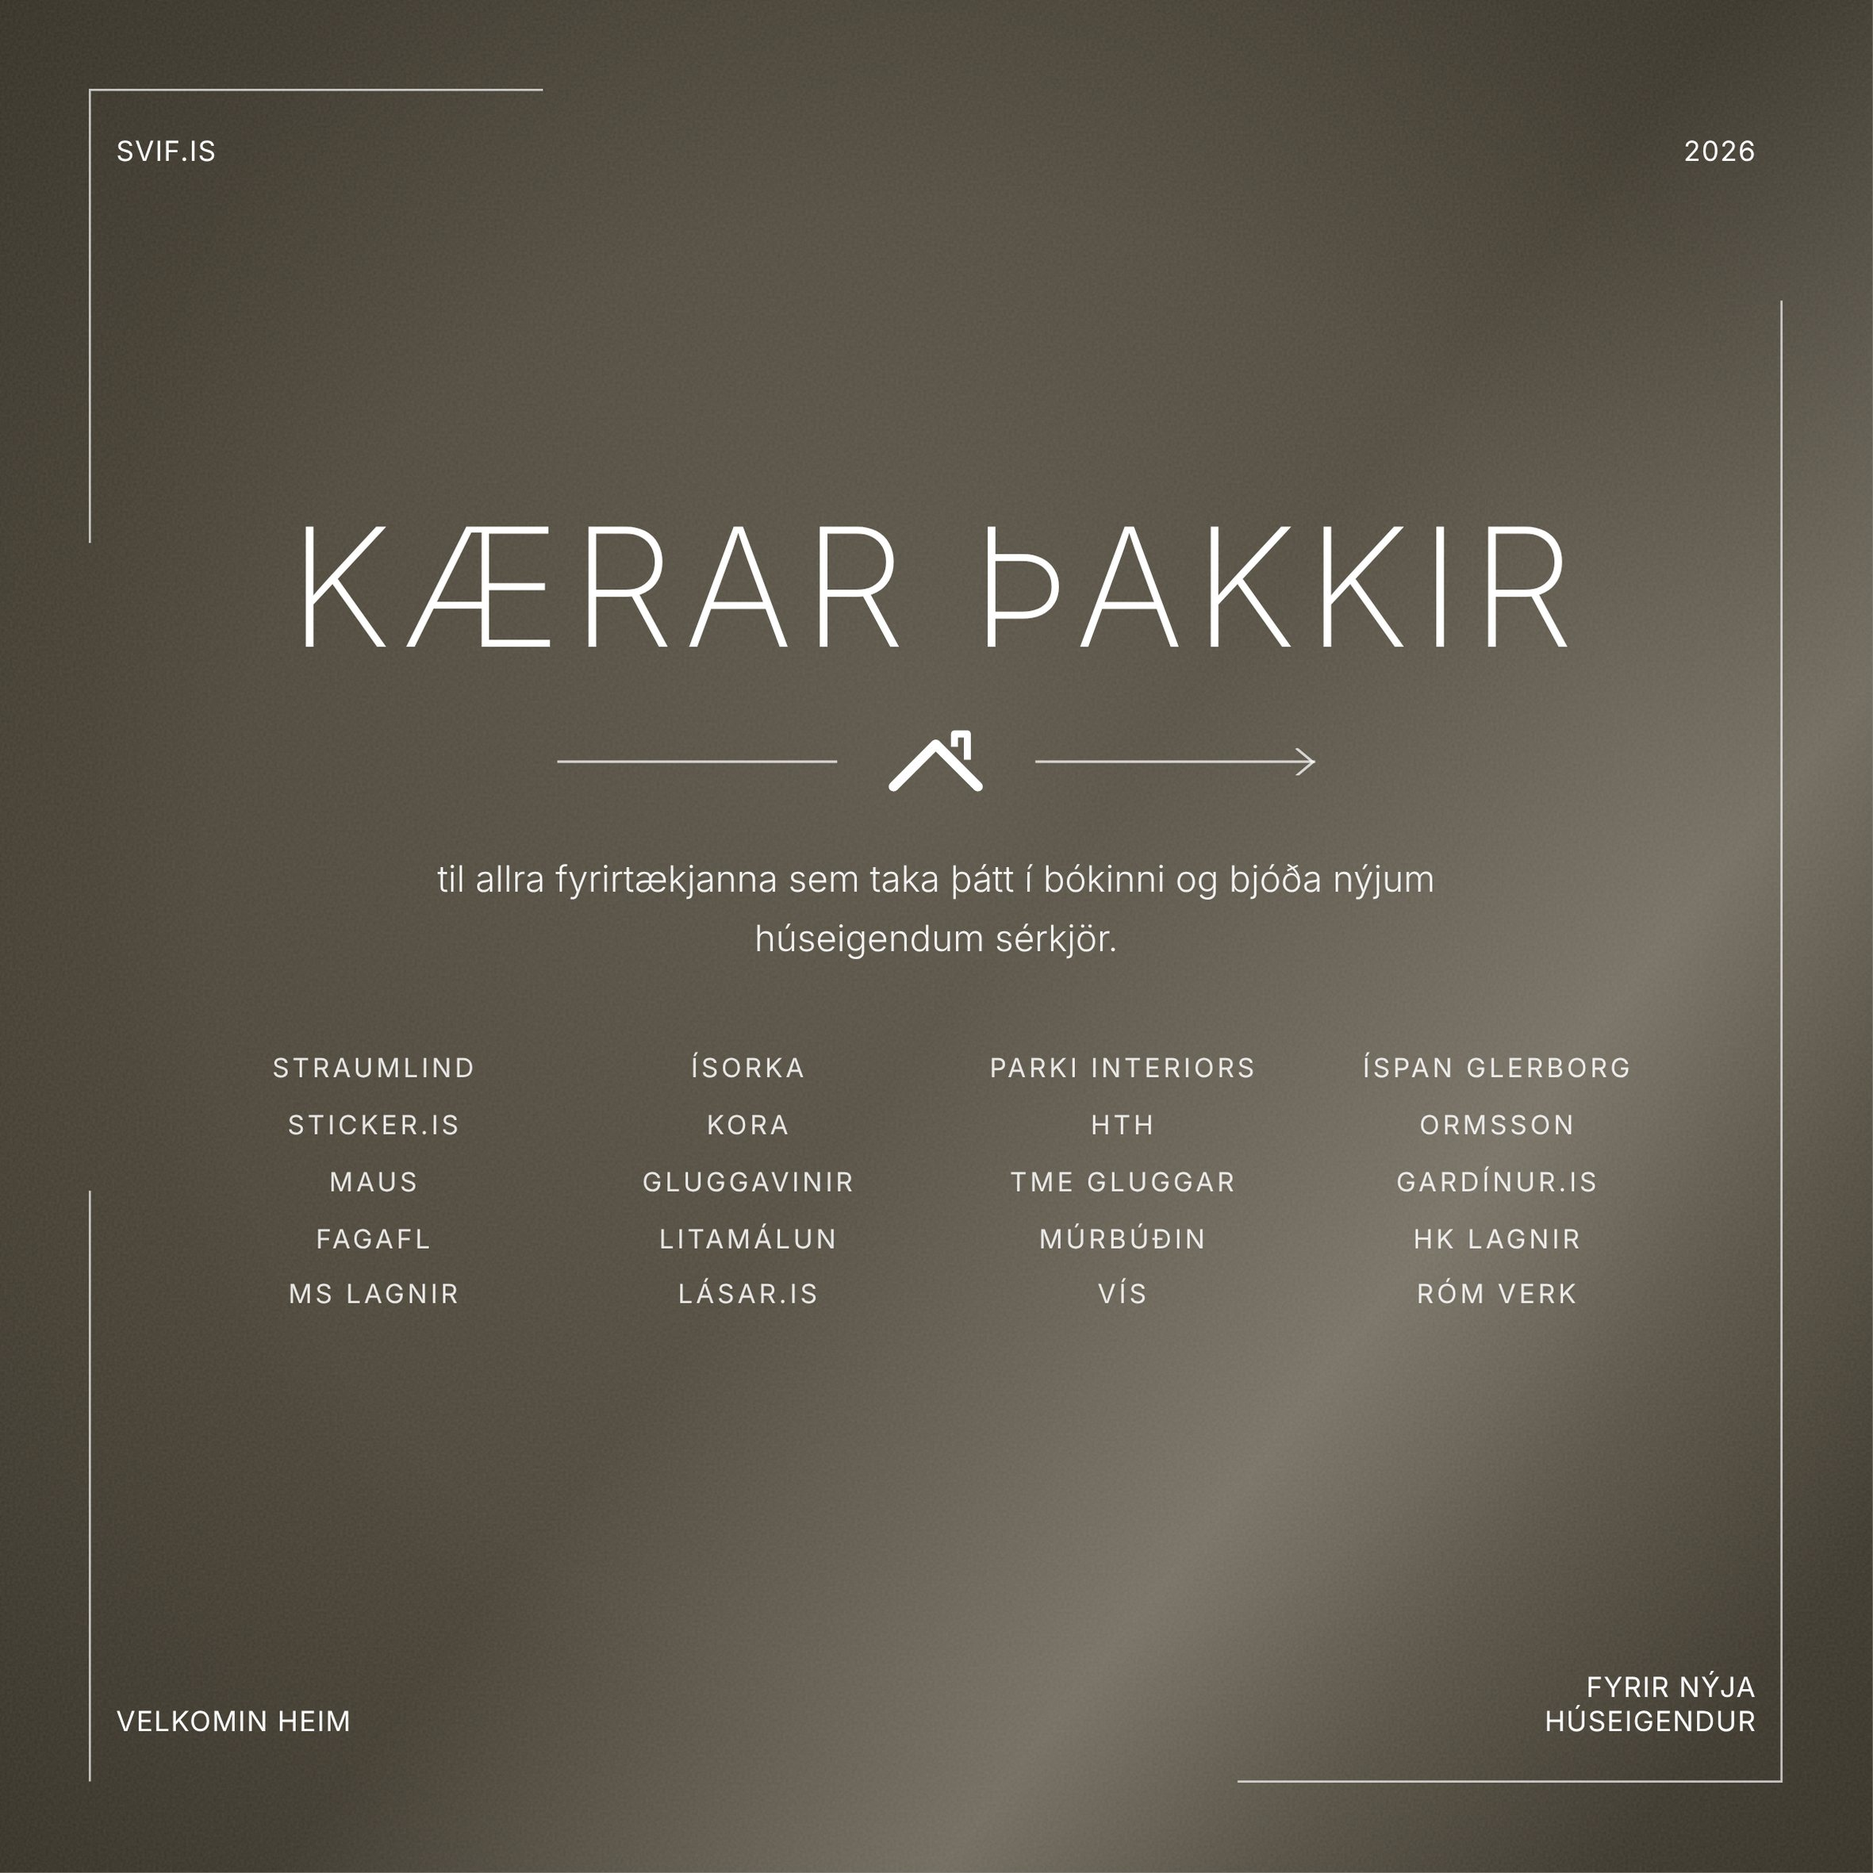
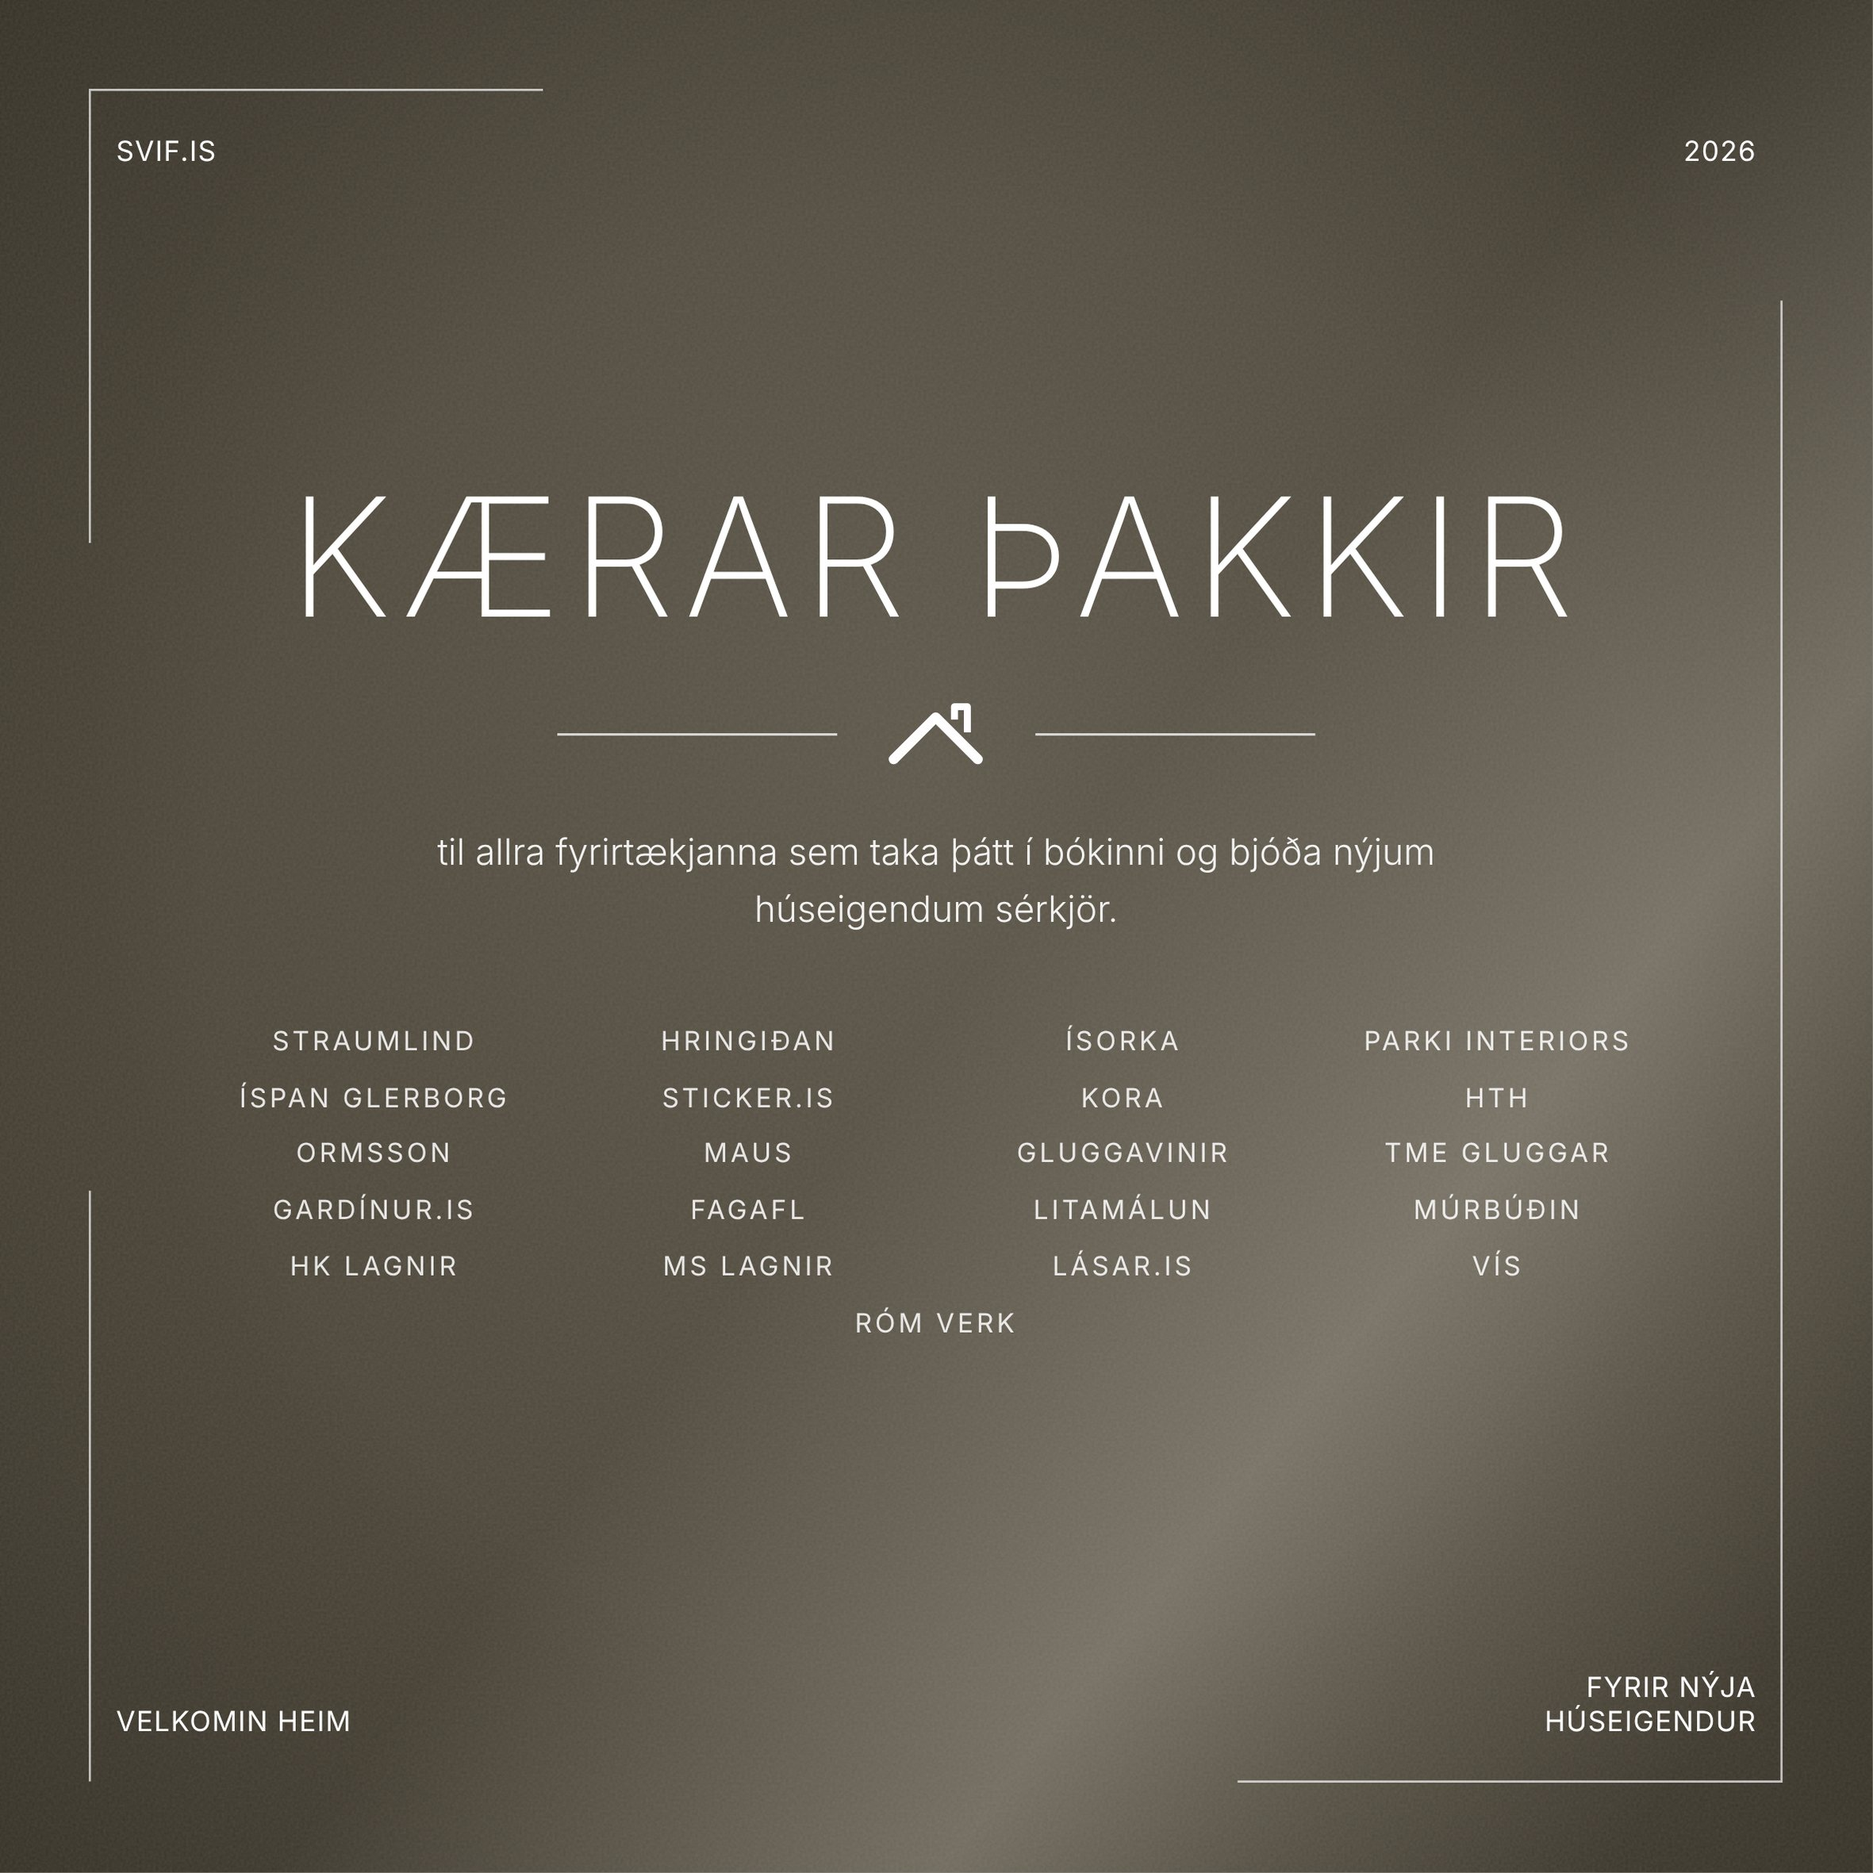
SVIF bæklingur: Hringiðan á bls. 9 við hlið Straumlindar, 30 síður, miðasíðan aftur hægri síða með auða bakhlið
Claude-Session: https://claude.ai/code/session_01JAXd2kxjoayDuyNhEKw2yp

diff --git a/svif-baeklingur/vefur/flettibok_src.html b/svif-baeklingur/vefur/flettibok_src.html
@@ -109,7 +109,7 @@ body.flatt .golfskuggi{display:none}
 <header>
   <div>
     <div class="merki">SVIF</div>
-    <div class="undir">Prufuflettu · 29 síður · 194 × 194 mm</div>
+    <div class="undir">Prufuflettu · 30 síður · 194 × 194 mm</div>
   </div>
   <div class="pilla" role="group" aria-label="Sýn">
     <button type="button" id="sjon2d" aria-pressed="false">2D</button>
@@ -133,13 +133,13 @@ body.flatt .golfskuggi{display:none}
 <div class="visbending" id="visbending">Smelltu á bókina, strjúktu eða notaðu örvatakkana til að fletta</div>
 <div class="stjorn">
   <button class="hnappur hringur" id="afturHn" type="button" aria-label="Fyrri opna">‹</button>
-  <div class="teljari" id="teljari">Forsíða<small>bls. 1 af 29</small></div>
+  <div class="teljari" id="teljari">Forsíða<small>bls. 1 af 30</small></div>
   <button class="hnappur hringur" id="framHn" type="button" aria-label="Næsta opna">›</button>
   <button class="hnappur" id="byrjaHn" type="button">Byrja aftur</button>
 </div>
 
 <section class="skra" aria-label="Efnisyfirlit">
-  <h2>Efnisyfirlit <span>20 fyrirtæki · 21 auglýsingasíða</span></h2>
+  <h2>Efnisyfirlit <span>21 fyrirtæki · 22 auglýsingasíður</span></h2>
   <ol id="skra"></ol>
 </section>
 
@@ -148,9 +148,9 @@ body.flatt .golfskuggi{display:none}
   // 32 síður = 16 blöð. 0 forsíða, 1 yfirlit, 2 afsláttarmiðar, 3–23 auglýsingar, 24–26 laust pláss, 27 Af hverju SVIF,
   // 28 afsláttarmiðar með rifgötun (ekki á kápublaðinu), 29 auð bakhlið miðanna, 30 Kærar þakkir, 31 bakkápa.
   // Hver opna (oddatala + slétt tala) heldur saman skyldum fyrirtækjum; tveggja síðna auglýsingar (Maus, Steindi) byrja á oddatölusíðu.
-  const heiti=['Forsíða', 'Yfirlit', 'Afsláttarmiðar', 'Parki', 'Gardínur', 'HTH', 'Ormsson', 'Straumlind', 'Ísorka', 'Íspan', 'Sticker', 'Maus', 'Maus', 'Gluggavinir', 'TME Gluggar', 'RÓM Verk', 'KORA', 'Litamálun', 'Múrbúðin', 'Fagafl', 'HK Lagnir', 'MS Lagnir', 'Lásar.is', 'VÍS', 'Af hverju SVIF', 'Afsláttarmiðar', 'Auð síða', 'Kærar þakkir', 'Auð síða', 'Bakkápa'];
+  const heiti=['Forsíða', 'Yfirlit', 'Afsláttarmiðar', 'Parki', 'Gardínur', 'HTH', 'Ormsson', 'Straumlind', 'Hringiðan', 'Ísorka', 'Íspan', 'Maus', 'Maus', 'Gluggavinir', 'TME Gluggar', 'Sticker', 'KORA', 'Litamálun', 'Múrbúðin', 'Fagafl', 'RÓM Verk', 'HK Lagnir', 'MS Lagnir', 'Lásar.is', 'VÍS', 'Af hverju SVIF', 'Afsláttarmiðar', 'Auð síða', 'Kærar þakkir', 'Bakkápa'];
   // Þema hverrar opnu, eftir flettingu (opna k sýnir síður 2k-1 og 2k).
-  const thema={1:'Yfirlit & afsláttarmiðar',2:'Gólf & gardínur',3:'Eldhús & tæki',4:'Rafmagn & orka',5:'Gler & filmur',6:'Eldvarnir',7:'Gluggar & ísetning',8:'Rafvirki & þjónusta',9:'Málun & múr',10:'Smíði & lagnir',11:'Lagnir & lásar',12:'Tryggingar & um SVIF',13:'Afsláttarmiðar',14:'Kærar þakkir'};
+  const thema={1:'Yfirlit & afsláttarmiðar',2:'Gólf & gardínur',3:'Eldhús & tæki',4:'Rafmagn & net',5:'Orka & gler',6:'Eldvarnir',7:'Gluggar & ísetning',8:'Filmur & þjónusta',9:'Málun & múr',10:'Smíði & rafvirki',11:'Lagnir',12:'Lásar & tryggingar',13:'Um SVIF & afsláttarmiðar',14:'Kærar þakkir'};
   const S=heiti.length, N=S/2;
   const bok=document.getElementById('bok');
   const mynd=i=>`sidur/sida_${String(i).padStart(2,'0')}.jpg`;
@@ -172,7 +172,7 @@ body.flatt .golfskuggi{display:none}
 
   // Efnisyfirlit: hvert fyrirtæki einu sinni, með fyrstu síðu þess (1-tölusett eins og í prentun)
   const skra=document.getElementById('skra'); const skraHn=[];
-  const augl=[3,4,5,6,7,8,9,10,11,12,13,14,15,16,17,18,19,20,21,22,23];
+  const augl=[3,4,5,6,7,8,9,10,11,12,13,14,15,16,17,18,19,20,21,22,23,24];
   for(const s of augl){
     if(heiti[s]===heiti[s-1]) continue;
     const li=document.createElement('li'); const b=document.createElement('button'); b.type='button';
@@ -206,12 +206,12 @@ body.flatt .golfskuggi{display:none}
     blokkV.style.setProperty('--th',(th*v/(N-1)+1)+'px'); blokkH.style.setProperty('--th',(th*h/(N-1)+1)+'px');
     blokkV.style.visibility=vs<=0?'hidden':'visible'; blokkH.style.visibility=hs<=0?'hidden':'visible';
     let nafn, bls;
-    if(flett===0){ nafn='Forsíða'; bls='bls. 1 af 29'; }
-    else if(flett===N){ nafn='Bakkápa'; bls='bls. 29 af 29'; }
+    if(flett===0){ nafn='Forsíða'; bls='bls. 1 af 30'; }
+    else if(flett===N){ nafn='Bakkápa'; bls='bls. 30 af 30'; }
     else {
       const a=2*flett-1, b=2*flett;
       nafn=heiti[a]===heiti[b]?heiti[a]:heiti[a]+' · '+heiti[b];
-      const pn=i=>i<28?i+1:(i===28?0:i); bls=(thema[flett]?thema[flett]+' · ':'')+(pn(a)&&pn(b)?`bls. ${pn(a)}–${pn(b)} af 29`:`bls. ${pn(a)||pn(b)} af 29`);
+      const pn=i=>i+1; bls=(thema[flett]?thema[flett]+' · ':'')+(pn(a)&&pn(b)?`bls. ${pn(a)}–${pn(b)} af 30`:`bls. ${pn(a)||pn(b)} af 30`);
     }
     teljari.innerHTML='<span class="nafn">'+nafn+'</span><small>'+bls+'</small>';
     afturHn.disabled=flett===0; framHn.disabled=flett===N;

diff --git a/svif-baeklingur/mockup/mockup.html b/svif-baeklingur/mockup/mockup.html
@@ -19,8 +19,8 @@ body{background:linear-gradient(180deg,#E6E5EF 0%,#E2DDDF 38%,#D6CBBC 100%)}
  <div class="hlutur" style="left:1500px;top:420px;width:1240px;height:620px;transform:rotateZ(5deg)">
    <div class="sk"></div>
    <div class="s" style="background:#F4EFE7;transform:translate(0,7px);border-radius:2px"></div>
-   <div style="position:absolute;left:0;top:0;width:620px;height:620px;background-image:url(../flett/sidur/sida_01.jpg);background-size:cover"></div>
-   <div style="position:absolute;left:620px;top:0;width:620px;height:620px;background-image:url(../flett/sidur/sida_02.jpg);background-size:cover"></div>
+   <div style="position:absolute;left:0;top:0;width:620px;height:620px;background-image:url(../flett/sidur/sida_25.jpg);background-size:cover"></div>
+   <div style="position:absolute;left:620px;top:0;width:620px;height:620px;background-image:url(../flett/sidur/sida_26.jpg);background-size:cover"></div>
    <div class="s" style="background:linear-gradient(90deg,rgba(0,0,0,0) 40%,rgba(0,0,0,.32) 49.4%,rgba(255,255,255,.12) 50.4%,rgba(0,0,0,0) 58%)"></div>
  </div>
 </div></div></body></html>

diff --git a/svif-baeklingur/dokk.py b/svif-baeklingur/dokk.py
@@ -41,7 +41,7 @@ def page(body, geisli=True):
             '.grunnur{position:absolute;inset:0;' + bg(geisli) + '}'
             f'</style></head><body><div class="grunnur"></div>{frame()}{body}</body></html>')
 
-FYRIRTAEKI = ['Straumlind', 'Ísorka', 'Parki Interiors', 'Íspan Glerborg', 'Sticker.is', 'KORA', 'HTH', 'Ormsson', 'Maus',
+FYRIRTAEKI = ['Straumlind', 'Hringiðan', 'Ísorka', 'Parki Interiors', 'Íspan Glerborg', 'Sticker.is', 'KORA', 'HTH', 'Ormsson', 'Maus',
               'Gluggavinir', 'TME Gluggar', 'Gardínur.is', 'Fagafl', 'Litamálun', 'Múrbúðin', 'HK Lagnir', 'MS Lagnir',
               'Lásar.is', 'VÍS', 'RÓM Verk']
 def thakkir():
@@ -69,14 +69,14 @@ if __name__ == '__main__':
 # Yfirlit án myndar: kaflar með fyrirtækjum og blaðsíðum, í útliti Kærar þakkir
 KAFLAR = [
     ('Gólf & flísar', [('Parki', '4')]),
-    ('Gluggar & gler', [('Gardínur', '5'), ('Íspan', '10'), ('Gluggavinir', '14'), ('TME Gluggar', '15')]),
+    ('Gluggar & gler', [('Gardínur', '5'), ('Íspan', '11'), ('Gluggavinir', '14'), ('TME Gluggar', '15')]),
     ('Eldhús & tæki', [('HTH', '6'), ('Ormsson', '7')]),
-    ('Rafmagn & rafbíll', [('Straumlind', '8'), ('Ísorka', '9'), ('RÓM Verk', '16')]),
-    ('Þjónusta & filmur', [('sticker.is', '11'), ('KORA', '17')]),
+    ('Rafmagn & net', [('Straumlind', '8'), ('Hringiðan', '9'), ('Ísorka', '10'), ('RÓM Verk', '21')]),
+    ('Þjónusta & filmur', [('sticker.is', '16'), ('KORA', '17')]),
     ('Eldvarnir', [('Maus', '12–13')]),
     ('Múr, málun & smíði', [('Litamálun', '18'), ('Múrbúðin', '19'), ('Fagafl', '20')]),
-    ('Bað & lagnir', [('HK Lagnir', '21'), ('MS Lagnir', '22')]),
-    ('Lásar & tryggingar', [('Lásar.is', '23'), ('VÍS', '24')]),
+    ('Bað & lagnir', [('HK Lagnir', '22'), ('MS Lagnir', '23')]),
+    ('Lásar & tryggingar', [('Lásar.is', '24'), ('VÍS', '25')]),
 ]
 def yfirlit():
     cols = ''
@@ -94,7 +94,7 @@ def yfirlit():
             '<div style="font-family:Inter;font-weight:300;font-size:9.4pt;line-height:1.55;max-width:132mm;color:rgba(255,255,255,.9)">'
             'Nýju heimili fylgja ótal verkefni. Hér eru traust fyrirtæki sem bjóða nýjum húseigendum sérkjör, flokkuð eftir verkefnum.</div>'
             f'<div style="display:grid;grid-template-columns:repeat(3,44mm);column-gap:10mm;row-gap:5.5mm;margin-top:7mm">{cols}</div></div>'
-            + corner('svif.is', 'tl') + corner('2026', 'tr') + corner('20 fyrirtæki', 'bl') + corner('Tilboð<br>og afslættir', 'br'))
+            + corner('svif.is', 'tl') + corner('2026', 'tr') + corner('21 fyrirtæki', 'bl') + corner('Tilboð<br>og afslættir', 'br'))
     return page(body)
 if __name__ == '__main__':
     open(os.path.join(D, 'd_yfirlit.html'), 'w', encoding='utf-8').write(yfirlit()); print('d_yfirlit')

diff --git a/svif-baeklingur/assemble_all.py b/svif-baeklingur/assemble_all.py
@@ -5,16 +5,16 @@ img = lambda i: os.path.join(F, f'img-{i:03d}.jpg')
 ad = lambda i: os.path.join(D, 'out', 'ads', f'p{i:02d}.jpg')
 pdf = lambda n: os.path.join(D, 'out', n + '.pdf')
 ny = lambda n: os.path.join(D, 'out', 'ads', n + '.jpg')
-PAGES = [  # (heiti, uppruni) – 29 síður
+PAGES = [  # (heiti, uppruni) – 30 síður
     ('Forsíða', ny('kapa_fram')), ('Yfirlit', os.path.join(D,'out','d_yfirlit.jpg')), ('Afsláttarmiðar (kynning)', os.path.join(D,'out','afslaettir_dark.jpg')),
-    ('Parki', img(5)), ('Gardínur', ad(20)), ('HTH', img(9)), ('Ormsson AEG', img(10)), ('Straumlind', img(4)), ('Ísorka', img(13)),
-    ('Íspan', img(6)), ('Sticker', img(7)), ('Maus', ad(11)), ('Maus', ad(12)), ('Gluggavinir', img(17)), ('TME Gluggar', ny('tme')),
-    ('RÓM Verk', img(23)), ('KORA', ad(8)), ('Litamálun', ny('litamalun')), ('Múrbúðin', img(19)), ('Fagafl', ny('fagafl')),
+    ('Parki', img(5)), ('Gardínur', ad(20)), ('HTH', img(9)), ('Ormsson AEG', img(10)), ('Straumlind', img(4)), ('Hringiðan', ny('hringidan')),
+    ('Ísorka', img(13)), ('Íspan', img(6)), ('Maus', ad(11)), ('Maus', ad(12)), ('Gluggavinir', img(17)), ('TME Gluggar', ny('tme')),
+    ('Sticker', img(7)), ('KORA', ad(8)), ('Litamálun', ny('litamalun')), ('Múrbúðin', img(19)), ('Fagafl', ny('fagafl')), ('RÓM Verk', img(23)),
     ('HK Lagnir', ad(15)), ('MS Lagnir', ny('mslagnir')), ('Lásar.is', img(16)), ('VÍS', ad(25)),
     ('Af hverju SVIF', os.path.join(D,'out','umsvif_dark.jpg')), ('Afsláttarmiðar', os.path.join(D,'out','midar_thema_framhlid.jpg')),
-    ('Auð síða', os.path.join(D,'out','d_aud.jpg')), ('Kærar þakkir', os.path.join(D,'out','d_thakkir.jpg')), ('Bakkápa', ny('kapa_bak')),
+    ('Auð síða (bakhlið miðanna)', os.path.join(D,'out','d_aud.jpg')), ('Kærar þakkir', os.path.join(D,'out','d_thakkir.jpg')), ('Bakkápa', ny('kapa_bak')),
 ]
-assert len(PAGES) == 29
+assert len(PAGES) == 30
 SZ = 200 * 72 / 25.4; b = 3 * 72 / 25.4
 def build(out, quality=None, px=None):
     doc = pymupdf.open()

diff --git a/svif-baeklingur/midasida_thema.py b/svif-baeklingur/midasida_thema.py
@@ -17,17 +17,13 @@ def tile(key, x, y, el, er, eb):
 
 html = m2.midar()
 a = html.index('<div class="tile"'); b = html.index('<svg class="perf"')
-tiles = (tile('ispan', m2.X0, m2.Y0, m2.X0, 0, 0) + tile('parki', m2.X1, m2.Y0, 0, m2.B, 0) +
-         tile('maus', m2.X0, m2.Y1, m2.X0, 0, m2.B) + tile('ormsson', m2.X1, m2.Y1, 0, m2.B, m2.B))  # speglað: Parki/Ormsson lenda vinstra megin
+tiles = (tile('parki', m2.X0, m2.Y0, m2.X0, 0, 0) + tile('ispan', m2.X1, m2.Y0, 0, m2.B, 0) +
+         tile('ormsson', m2.X0, m2.Y1, m2.X0, 0, m2.B) + tile('maus', m2.X1, m2.Y1, 0, m2.B, m2.B))
 css = m.CSS
 for k, (bg, ink, acc, dark) in THEME.items():
     css += (f'#t_{k}{{color:{ink}}}#t_{k} .ey,#t_{k} .sm{{color:{acc}!important}}#t_{k} .lead{{color:{ink}!important;opacity:.9}}'
             f'#t_{k} .foot{{color:{ink}!important;opacity:.75}}#t_{k} .foot b{{color:{ink}!important}}#t_{k} .tag{{border-color:{ink}!important;color:{ink}}}')
 html = html[:a] + tiles + html[b:]
 html = html.replace('</style>', css + '</style>', 1)
-i = html.index('<body>') + len('<body>')
-j = html.index('</div>', html.index('class="grunnur"')) + len('</div>')
-html = html[:j] + '<div class="flip" style="position:absolute;inset:0;transform:scaleX(-1)">' + html[j:].replace('</body>', '</div></body>', 1)
-html = html.replace('</style>', '.flip .mi{transform:scaleX(-1)}.flip>div:not(.tile){transform:scaleX(-1)}</style>', 1)
 open(os.path.join(D, 'midar_thema_framhlid.html'), 'w', encoding='utf-8').write(html)
 print('ok')
